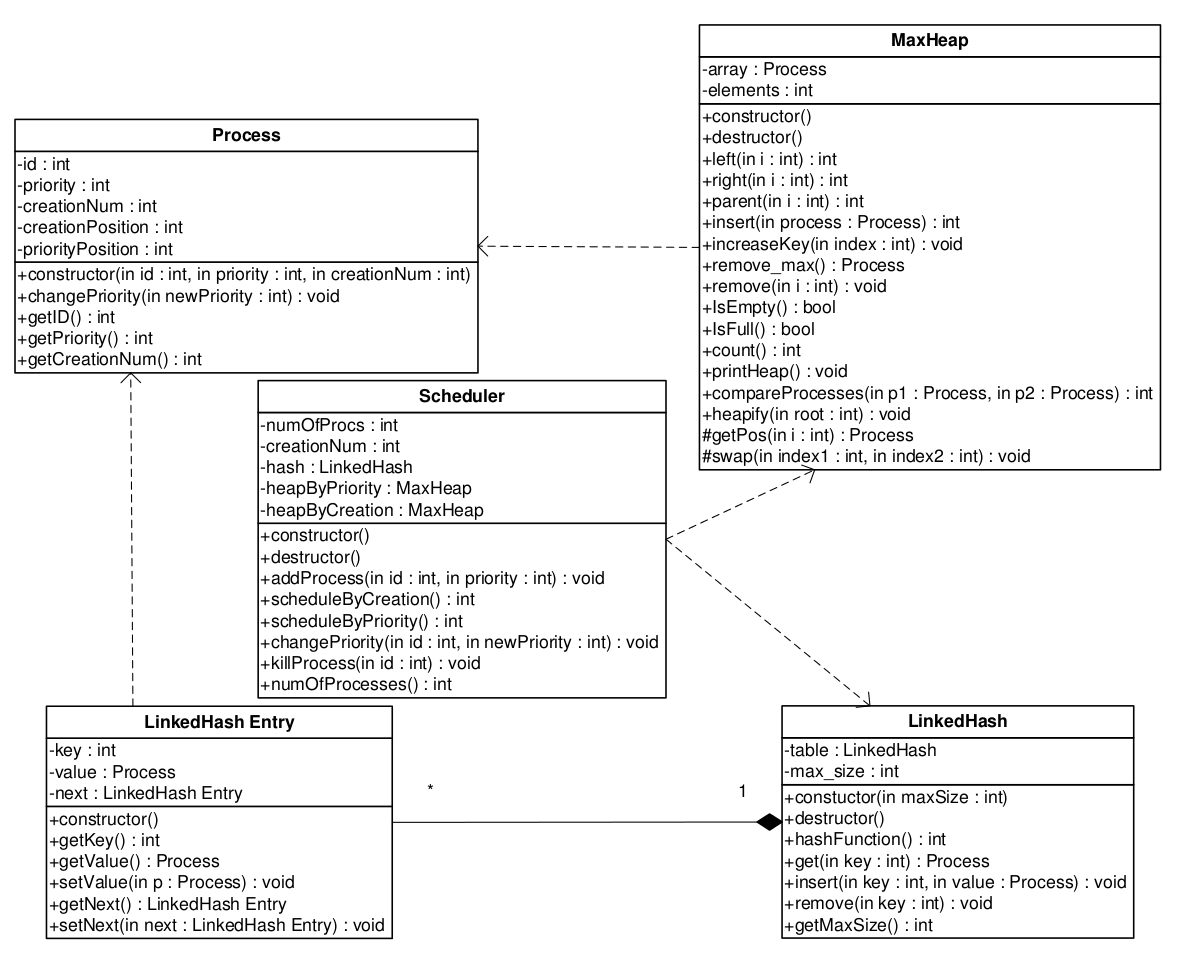
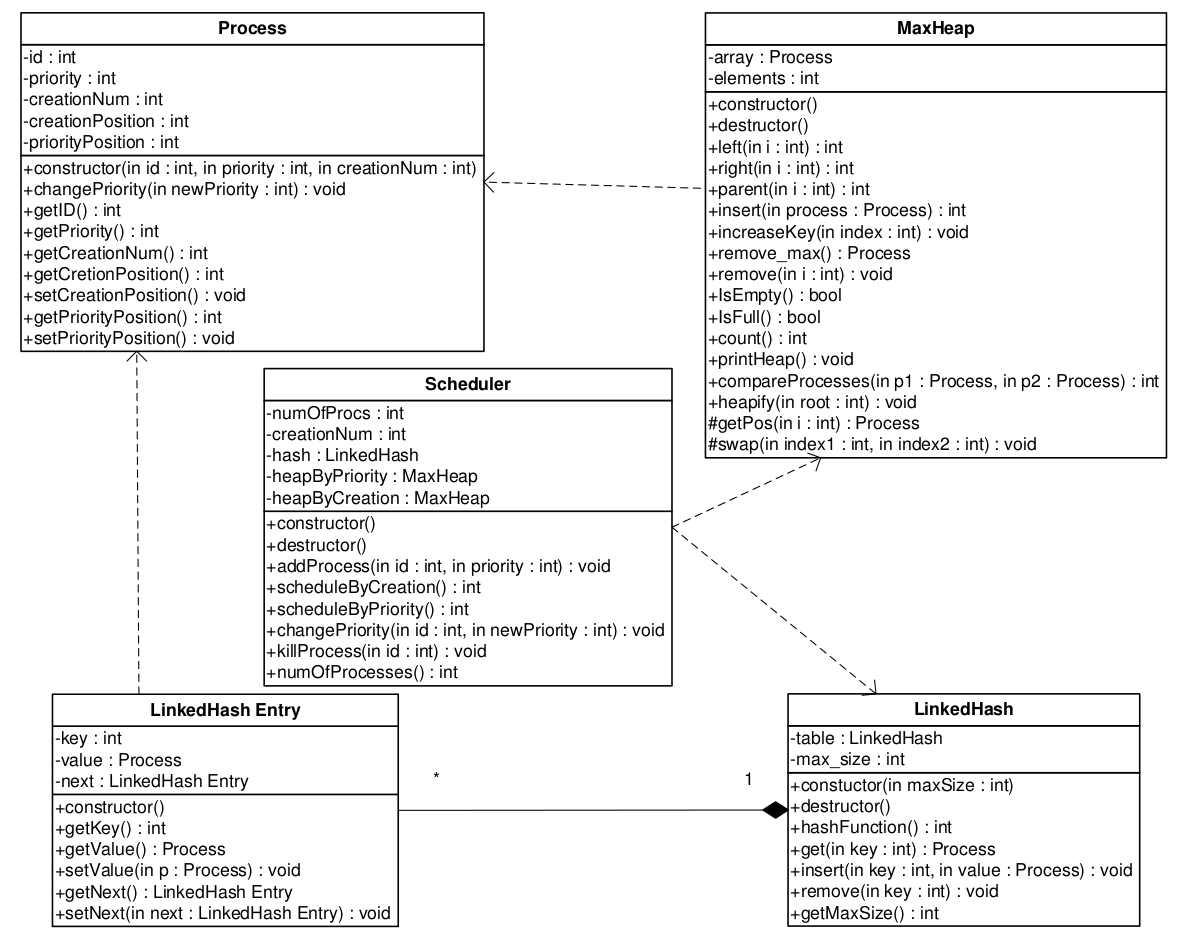
project cleaned

Changed region(s): [[0.0, 0.0, 1.0, 1.0], [0.6412, 0.6451, 0.6718, 0.6758]]

diff --git a/LinkedHash.py b/LinkedHash.py
@@ -1,11 +1,4 @@
 import math
-'''
-An abstract chain hash implementation for process objects.
-In order to use it you will need to:
-    1. Implement the missing function "remove" in LinkedHash.cpp
-    2. You must inherit from this class and implement the hashFunction.
-See further documentation below.
-'''
 
 class LinkedHashEntry:
     '''Constructor'''
@@ -56,18 +49,12 @@ class LinkedHash:
 
 
     
-    def hashFunction (self, key):
-        '''You must implement this function in the derived class 
-        in order to use the hash.
-        What are the assumptions you are making ?
-        What will be your key ?''' 
+    def hashFunction (self, key): 
         # multiplication method implementation
         return int(math.floor(self._max_size*((key*0.293)%1)))
 
 
     def get (self, key):
-        '''Returns the process corresponding to key.
-        You need to decide on the key to provide to this function.'''
         hashKey = self.hashFunction(key)
         if hashKey >= self._max_size or hashKey < 0:
             print 'hashFunction result cannot be larger than %d or negative \n' % self._max_size
@@ -85,9 +72,7 @@ class LinkedHash:
 
 
     def insert (self, key, value):
-        '''Inserts a new process to the hashtable.
-        You need to decide on the key to provide to this function.'''
-        #while adding, due to dynamoc nature of an array, 
+        #while adding, due to dynamic nature of an array, 
         #have to check all the time whether max_size is not exceeded
         hashKey = self.hashFunction(key)
         if hashKey >= self._max_size or hashKey < 0:
@@ -96,7 +81,7 @@ class LinkedHash:
         p = self.get(key)
         
         if p != None:
-            print 'Process with id %d alreay exists in the hash' % key
+            print 'Process with id %d already exists in the hash' % key
             return
 
         lhe = LinkedHashEntry(key, value)
@@ -106,8 +91,6 @@ class LinkedHash:
         self._table[hashKey] = lhe
 
     def remove (self, key):
-        '''Removes an existing process from the hashtable.
-        You need to implement it in LinkedHash.cpp.'''
         hashKey = self.hashFunction(key)
         if hashKey >= self._max_size or hashKey < 0:
             print 'hashFunction result cannot be larger than %d or negative \n' % self._max_size
@@ -134,6 +117,7 @@ class LinkedHash:
         return self._max_size
 
     def printTable (self):
+        #for debugging purposes only
         for record in self._table:
             if record != None:
                 entry = record
@@ -142,12 +126,3 @@ class LinkedHash:
                     entry = entry.getNext()
             else:
                 print None
-
-def main():
-    hash = LinkedHash(10)
-    hash.insert(1, 'test')
-    hash.remove(1)
-    hash.printTable()
-
-if __name__=='__main__':
-    main()

diff --git a/example_output.py b/example_output.py
@@ -1,9 +1,9 @@
 import Scheduler
 
 def main():
-    print 'Running the example main.\n'
+    print 'Running the example main.'
     scheduler = Scheduler.Scheduler()
-    print '1. There are %d processes in the system\n' % scheduler.numOfProcesses()
+    print '1. There are %d processes in the system' % scheduler.numOfProcesses()
     scheduler.addProcess(345,34)
     scheduler.addProcess(347,78)
     scheduler.addProcess(457,10)
@@ -14,7 +14,7 @@ def main():
     scheduler.addProcess(89,45)
     scheduler.addProcess(5,3004)
 
-    print '2. Now there are %d  processes in the syste' % scheduler.numOfProcesses()
+    print '2. Now there are %d  processes in the system' % scheduler.numOfProcesses()
     print '3. First one scheduled by creation is ID: %d' % scheduler.scheduleByCreation()
     print '4. Second one scheduled by priority is ID: %d' % scheduler.scheduleByPriority()
     print '5. Now there are %d processes in the system' % scheduler.numOfProcesses()
@@ -35,7 +35,7 @@ def main():
     print '11. Now there are %d processes in the system' % scheduler.numOfProcesses()
     scheduler.addProcess(345,3004)
     scheduler.addProcess(346,344)
-    print '12. After adding 2 processes, there are %d processes in the syste' % scheduler.numOfProcesses()
+    print '12. After adding 2 processes, there are %d processes in the system' % scheduler.numOfProcesses()
     print '13. Seventh one scheduled by creation is ID: %d' % scheduler.scheduleByCreation()
     print '14. Eighth one scheduled by priority is ID: %d' % scheduler.scheduleByPriority()
     scheduler.killProcess(3004)
@@ -43,7 +43,7 @@ def main():
     print '15. Ninth one scheduled by priority is ID: %d'  % scheduler.scheduleByPriority()
     
     scheduler.destroy()
-    print '\n\n' 
+    print '\n' 
     return 0
 
 if __name__=='__main__':

diff --git a/MaxHeap.py b/MaxHeap.py
@@ -1,14 +1,5 @@
 MAX_SIZE = 1000
 
-'''
-An abstract implementation of a maximum heap.
-In order to use this class you will need to:
-    1. Implement the missing methods in MaxHeap.cpp. These are: remove, 
-    increaseKey and remove_max methods.
-    2. Inherit from MaxHeap, the inheritance should contain implementations 
-    at least of the virtual function "compareProcesses".
-'''
-
 class MaxHeap:
     def __init__(self):
         '''Constructor'''
@@ -121,7 +112,6 @@ class MaxHeap:
         - a positive number if p1's key is larger than p2's key
         - 0 if p1's key is equal to p2's key
         - a negative number if p1's key is smaller than p2's key
-        You must decide on the criteria for comparing the processes.
         '''
         if process1['key'] == None or process2['key'] == None:
             print 'compareProcesses: processes must have priorities \n'
@@ -166,7 +156,7 @@ class MaxHeap:
         self._array[index2] = temp
 
         if self._array[index1]['key'] < 0:
-            #it means we are swaping creationHeap
+            #it means we are swapping creationHeap
             self._array[index1]['value'].setCreationPosition(index1)
             self._array[index2]['value'].setCreationPosition(index2)
         else:

diff --git a/Scheduler.py b/Scheduler.py
@@ -35,7 +35,7 @@ class Scheduler:
         3. Remove from _heapByPriority
         4. Remove from _hash
         5. Reduce amount of processes in the system
-        5. Return the value
+        6. Return the value
         '''
         maximumItem = self._heapByCreation.remove_max()
         priorityIndex = maximumItem['value'].getPriorityPosition()
@@ -54,9 +54,9 @@ class Scheduler:
 
     def changePriority (self, id, newPriority):
         '''
-        1. Retrieve priorityPosition from _hash
-        2. increaseKey in _heapByPriority
-        3. update priorityPosition in _hash
+        1. Retrieve process from a hash by id
+        2. Call increaseKey method of heapByPriority
+        3. Call changePriority method of process class
         '''
         process = self._hash.get(id)
         self._heapByPriority.increaseKey(process.getPriorityPosition(), newPriority);

diff --git a/Process.py b/Process.py
@@ -1,5 +1,4 @@
 class Process:
-    '''Needs to be implemented by students'''
     def __init__(self, id, priority, creationNum):
         self._id = id
         self._priority = priority

diff --git a/README.md b/README.md
@@ -24,6 +24,9 @@ You should create the system which performs the operations mentioned further.
 *	You should also correctly deal with incorrect input: i.e. id number doesn't exist, or priority is a negative number, etc. In this case,
 	the system should print error message that fits and do not make changes to the data structure.
 
+### Class Diagram
+![uml class diagram](https://raw.github.com/bolshchikov/scheduler-system/master/class_diagram.jpg)
+
 ### Implement
 You should implement the methods descirbed below with the given complexity. Your implementation will be in `Scheduler.py`.
 Explanations regarding the given files, in which hash tables and max heap are implemented, are provided further.
@@ -49,23 +52,6 @@ Explanations regarding the given files, in which hash tables and max heap are im
 4.	`example_output.py` - is the file for checks.
 
 Your are allowed to write the extra code in file `schedule_extra.py`. 
-
-### UML Class Diagram
-![uml class diagram](https://raw.github.com/bolshchikov/scheduler-system/master/class_diagram.jpg)
-
-TODO
-----
-1. Rewrite C++ files to Python:
-	* <del>Process.h</del>
-	* <del>Scheduler.h</del>
-	* <del>LinkedHash.h</del> and <del>LinkedHash.cpp</del>
-	* <del>MaxHeap.h</del> and <del>MaxHeap.cpp</del>
-	* <del>example_output.cpp</del>
-2. <del>Implement Process</del>
-3. <del>Implement MaxHeap</del>
-4. <del>Implement LinkedHash</del>
-5. <del>Implement Scheduler</del>
-6. Write documentation
 
 ***
 [*The MIT License*](http://mit-license.org/)
